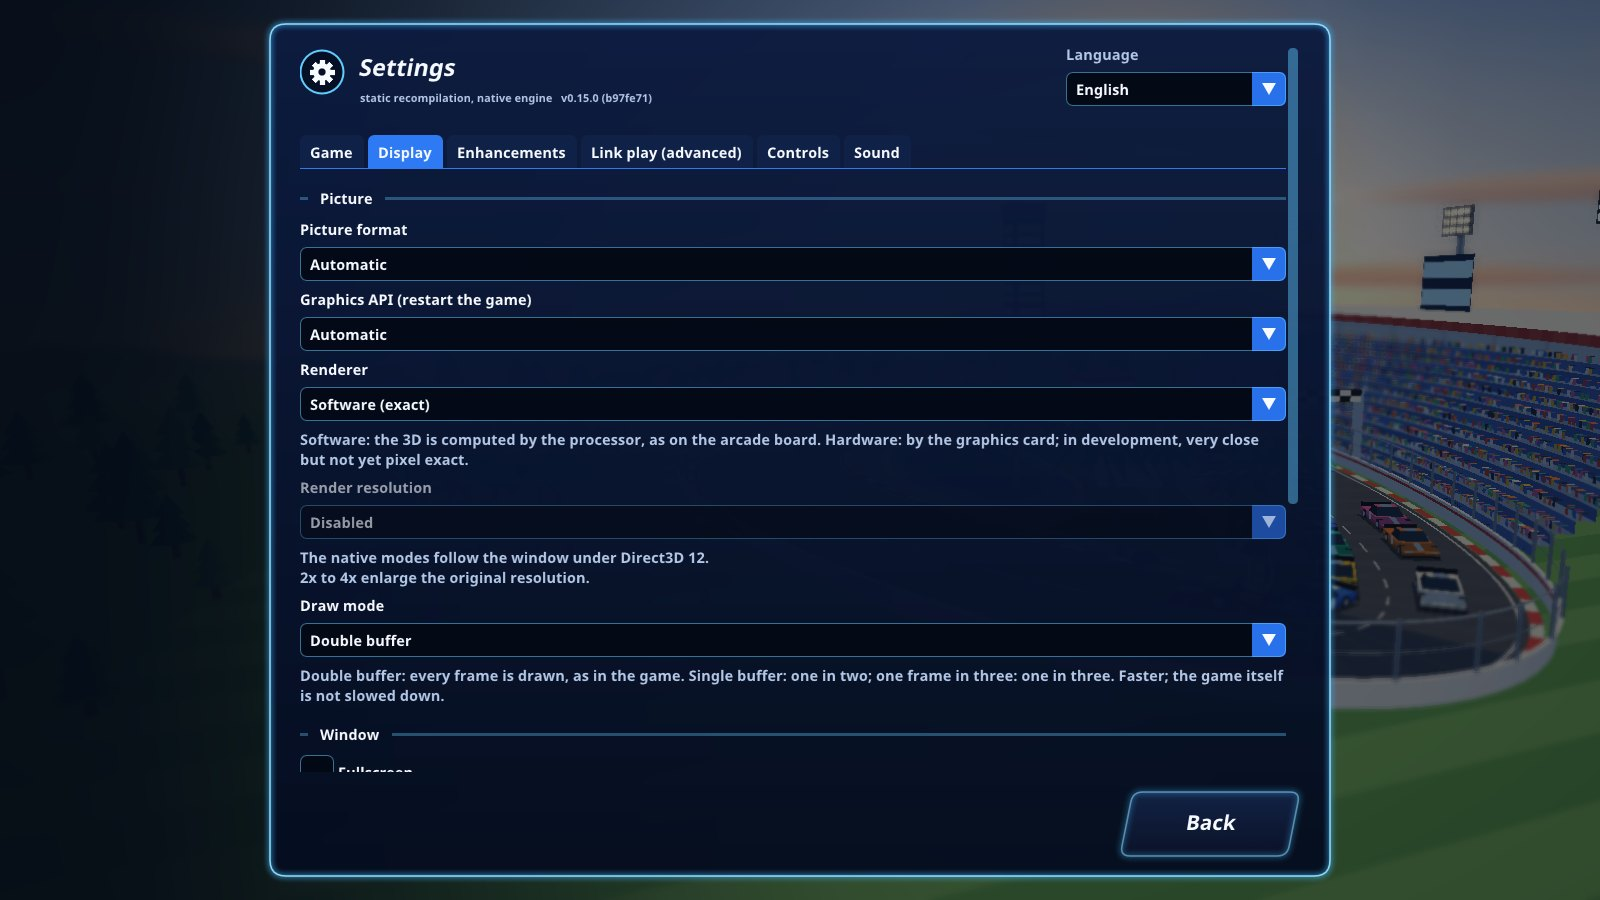
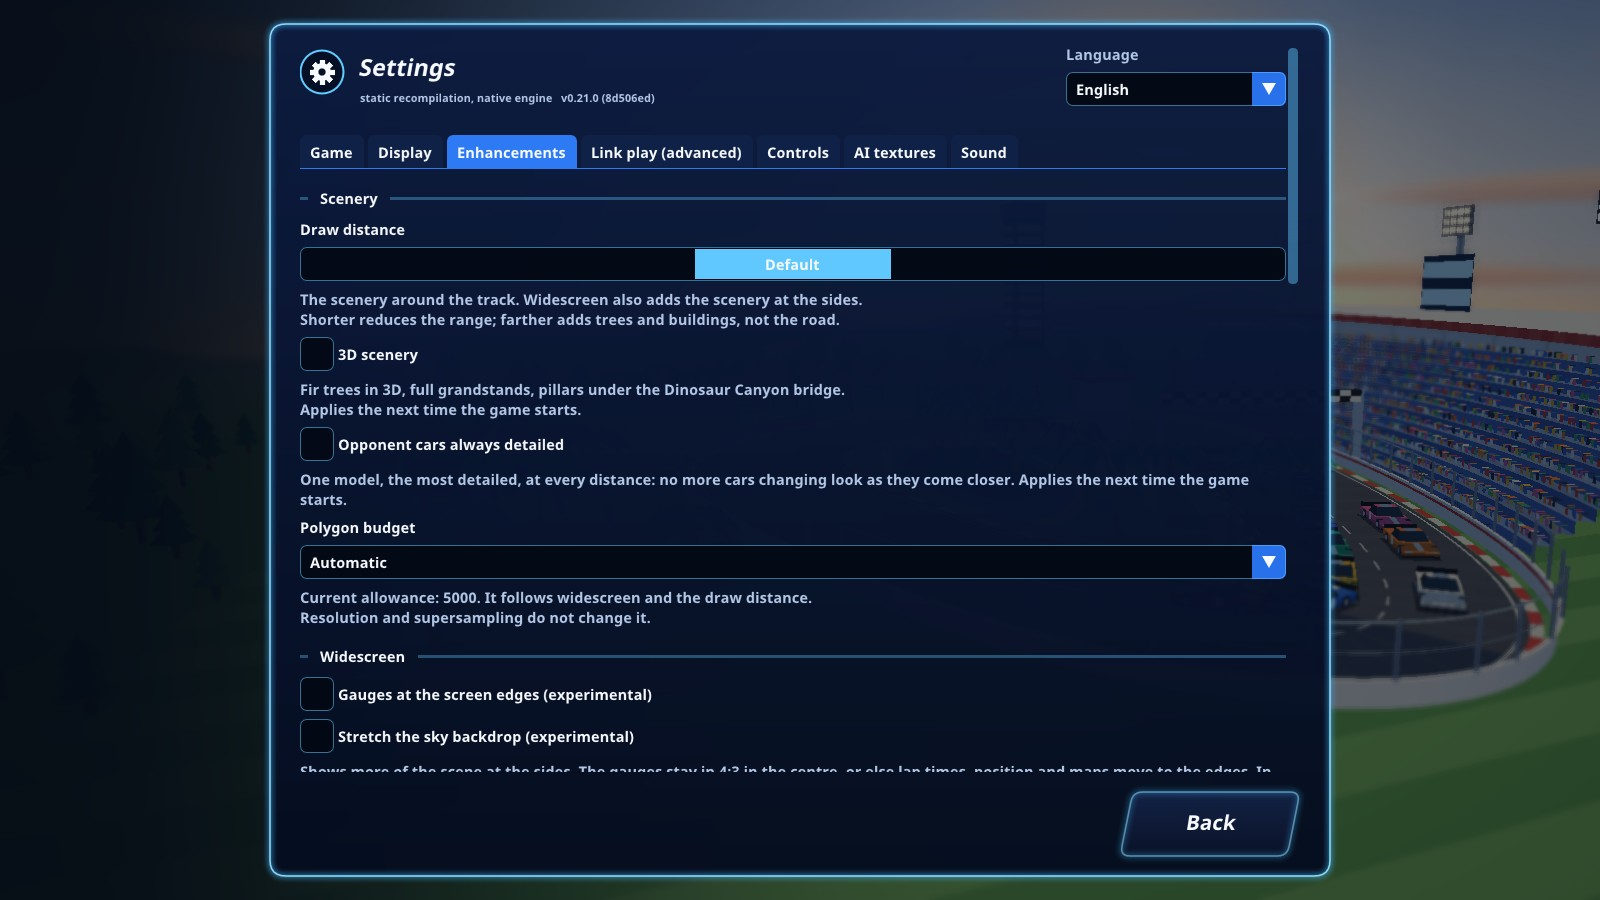
README pictures from 0.21.0
The home screen, the Online card, a room and Settings captured again
from 0.21.0 (--capture-home, 1600x900): Settings shows its seven tabs on
the Enhancements tab, and a new picture shows the AI textures tab. Both
READMEs list them. The room's settings screen is unchanged since 0.15.0
and is kept. Documentation only.

diff --git a/README.pt-BR.md b/README.pt-BR.md
@@ -212,8 +212,10 @@ do próprio aplicativo e o seu autódromo em 3D, capturados com
 | --- | --- |
 | ![O cartão Online: um código de convite colado sozinho, Criar uma sala, Entrar na sala](docs/images/home-online.jpg) | ![Numa sala: as oito vagas nas cores dos carros, o dono coroado, Começar a corrida](docs/images/home-room.jpg) |
 | **Online**: o código de convite é colado sozinho; ou crie uma sala. | **Numa sala**: as vagas nas cores dos carros, o que ela aguarda. |
-| ![As configurações da sala: nome, servidor e as configurações da corrida como opções](docs/images/room-settings.jpg) | ![Configurações: abas numa coluna que rola](docs/images/settings.jpg) |
-| **Configurações da sala**: nome, servidor e a corrida para todos os jogadores. | **Configurações**: vídeo, melhorias, controles, som. |
+| ![As configurações da sala: nome, servidor e as configurações da corrida como opções](docs/images/room-settings.jpg) | ![Configurações: sete abas, a aba Melhorias aberta](docs/images/settings.jpg) |
+| **Configurações da sala**: nome, servidor e a corrida para todos os jogadores. | **Configurações**: vídeo, melhorias, controles, texturas IA, som. |
+| ![Configurações > Texturas IA: o que este computador tem, gerar o pacote, usá-lo](docs/images/ai-textures.jpg) | |
+| **Texturas IA** (experimental): gere o pacote de texturas em alta resolução neste computador. | |
 
 ## Novas versões
 

diff --git a/README.md b/README.md
@@ -202,8 +202,10 @@ frame is shown.
 | --- | --- |
 | ![The Online card: an invite code pasted on its own, Create a new room, Join the room](docs/images/home-online.jpg) | ![In a room: its eight places in the cars' colours, the owner crowned, Start the race](docs/images/home-room.jpg) |
 | **Online**: the invite code is pasted on its own; or create a room. | **In a room**: its places in the cars' colours, what it waits for. |
-| ![The room's settings: name, server, and the race settings as choices](docs/images/room-settings.jpg) | ![Settings: six tabs in one scrolling column](docs/images/settings.jpg) |
-| **Room settings**: name, server, and the race for every player. | **Settings**: display, enhancements, controls, sound. |
+| ![The room's settings: name, server, and the race settings as choices](docs/images/room-settings.jpg) | ![Settings: seven tabs, the Enhancements tab open](docs/images/settings.jpg) |
+| **Room settings**: name, server, and the race for every player. | **Settings**: display, enhancements, controls, AI textures, sound. |
+| ![Settings > AI textures: what this computer has, making the pack, using it](docs/images/ai-textures.jpg) | |
+| **AI textures** (experimental): make the high-resolution texture pack on this computer. | |
 
 ## New versions
 
